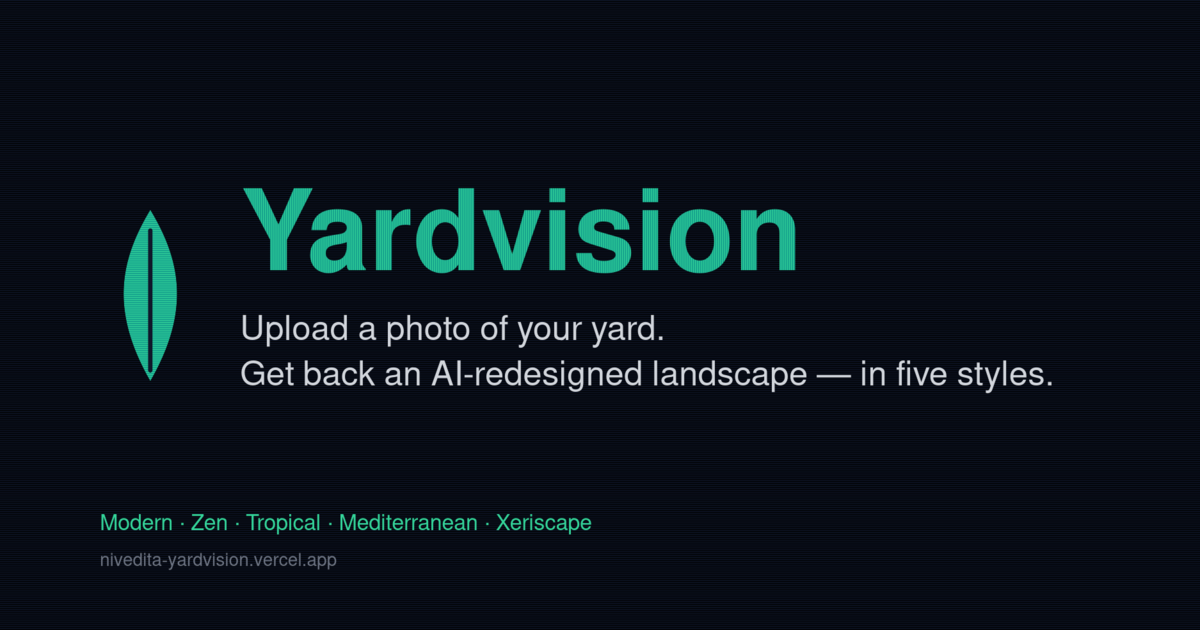
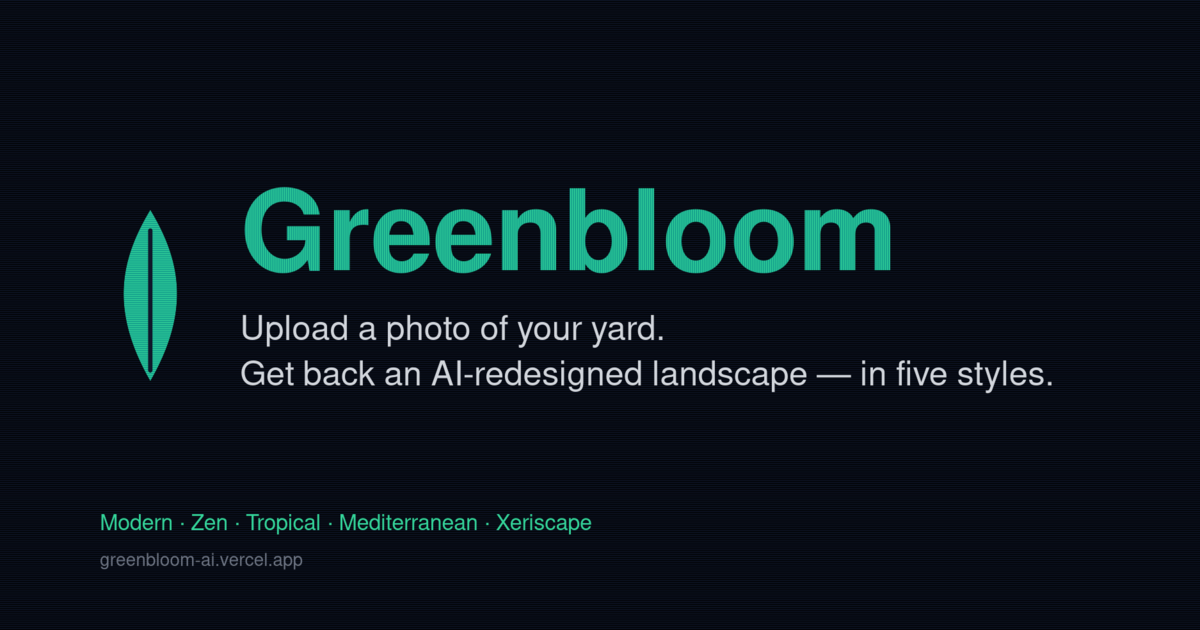
Rebrand from Yardvision to Greenbloom
Rename user-facing brand and addressable identifiers to Greenbloom to
match the new greenbloom-ai.vercel.app URL. Repository name on GitHub
is unchanged (yardvision) for now.

- Hero heading, browser tab title, meta description
- package.json + package-lock.json "name" field
- Main component file (yardvision.tsx -> greenbloom.tsx) and its export
  (Yardvision -> Greenbloom), with the page.tsx import updated to match
- README title and live-demo URL
- .env.example header
- OG image regenerated at src/app/opengraph-image.png (now reads
  "Greenbloom" with the greenbloom-ai.vercel.app URL footer); source SVG
  updated at scripts/og-image.svg

Changed region(s): [[0.185, 0.2714, 0.74, 0.4524], [0.0925, 0.8746, 0.2775, 0.9048]]

diff --git a/src/components/greenbloom.tsx b/src/components/greenbloom.tsx
@@ -83,7 +83,7 @@ function fileToDataUrl(file: File): Promise<string> {
 
 const TURNSTILE_SITE_KEY = process.env.NEXT_PUBLIC_TURNSTILE_SITE_KEY
 
-export function Yardvision() {
+export function Greenbloom() {
   const [step, setStep] = useState<1 | 2 | 3>(1)
   const [imageDataUrl, setImageDataUrl] = useState<string | null>(null)
   const [selectedStyle, setSelectedStyle] = useState<string>(STYLES[0].id)
@@ -195,7 +195,7 @@ export function Yardvision() {
     <div className="min-h-screen bg-gradient-to-br from-gray-900 to-black text-gray-100 p-4 md:p-8">
       <header className="max-w-5xl mx-auto text-center mb-10">
         <h1 className="text-4xl md:text-6xl font-bold mb-4 bg-clip-text text-transparent bg-gradient-to-r from-emerald-400 to-teal-600">
-          Yardvision
+          Greenbloom
         </h1>
         <p className="text-xl text-gray-300">
           Upload a photo of your yard and see it reimagined in seconds.

diff --git a/src/app/layout.tsx b/src/app/layout.tsx
@@ -14,7 +14,7 @@ const geistMono = localFont({
 });
 
 export const metadata: Metadata = {
-  title: "Yardvision — AI landscape redesign from a photo",
+  title: "Greenbloom — AI landscape redesign from a photo",
   description:
     "Upload a photo of your yard and get back an AI-redesigned landscape in five distinct styles.",
 };

diff --git a/src/app/page.tsx b/src/app/page.tsx
@@ -1,5 +1,5 @@
-import { Yardvision } from "@/components/yardvision"
+import { Greenbloom } from "@/components/greenbloom"
 
 export default function Home() {
-  return <Yardvision />
+  return <Greenbloom />
 }

diff --git a/README.md b/README.md
@@ -1,15 +1,15 @@
-# Yardvision
+# Greenbloom
 
 > Upload a photo of your yard. Pick a style. Get back an AI-redesigned landscape — house left untouched.
 
 A full-stack web app that turns a single photo of an unloved yard into a portfolio-quality landscape redesign across five distinct styles (Modern, Japanese Zen, Tropical, Mediterranean, Xeriscape / Desert). Built as a personal project to explore image-to-image generative AI in a real product context — including the unglamorous parts: API cost control, abuse prevention, and prompt engineering that survives contact with real users.
 
 <!-- TODO: add a before/after screenshot. Save as docs/before-after.png and uncomment the line below. -->
-<!-- ![Yardvision before-and-after screenshot](docs/before-after.png) -->
+<!-- ![Greenbloom before-and-after screenshot](docs/before-after.png) -->
 
 ## Live demo
 
-**Try it:** <https://nivedita-yardvision.vercel.app>
+**Try it:** <https://greenbloom-ai.vercel.app>
 
 ## What it does
 
